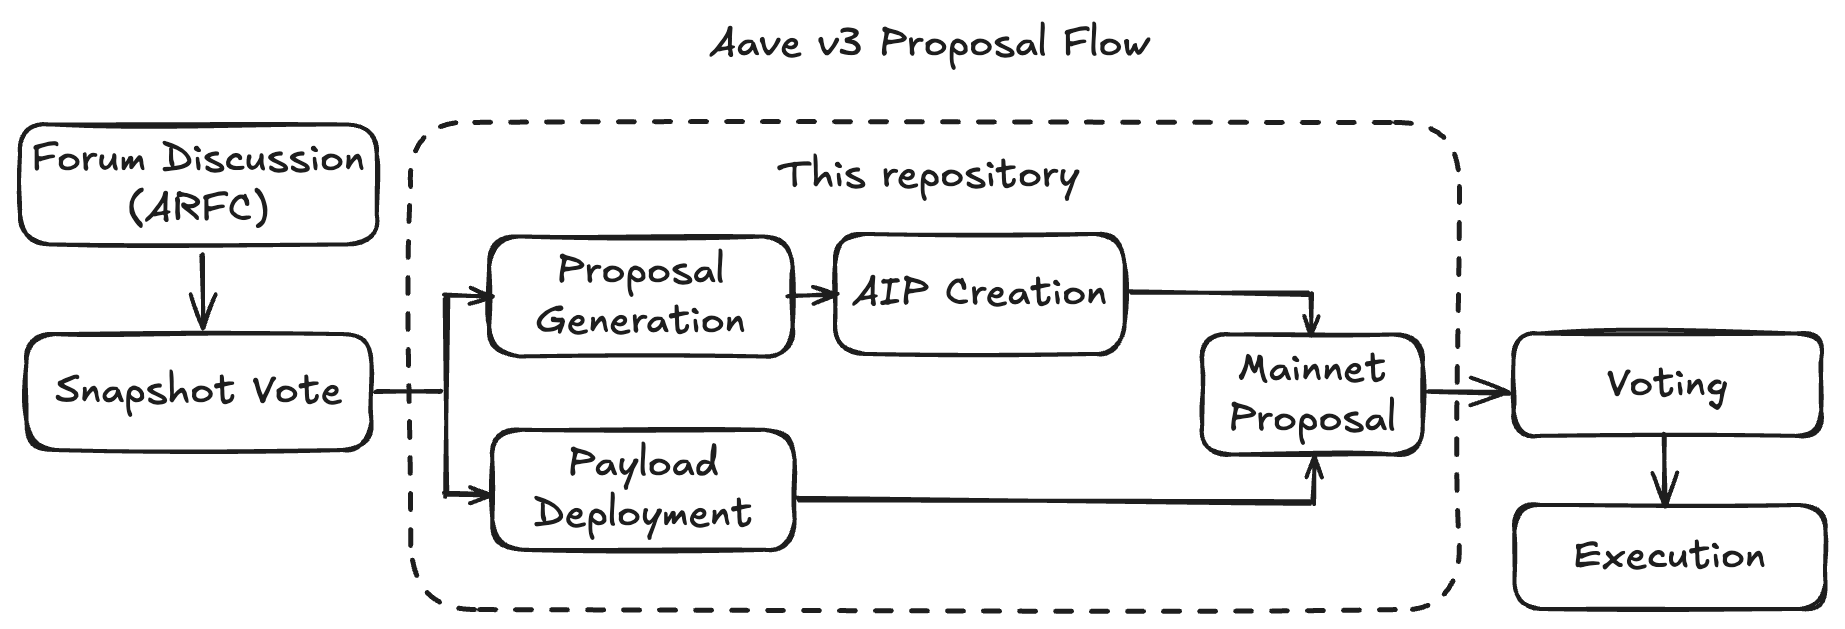
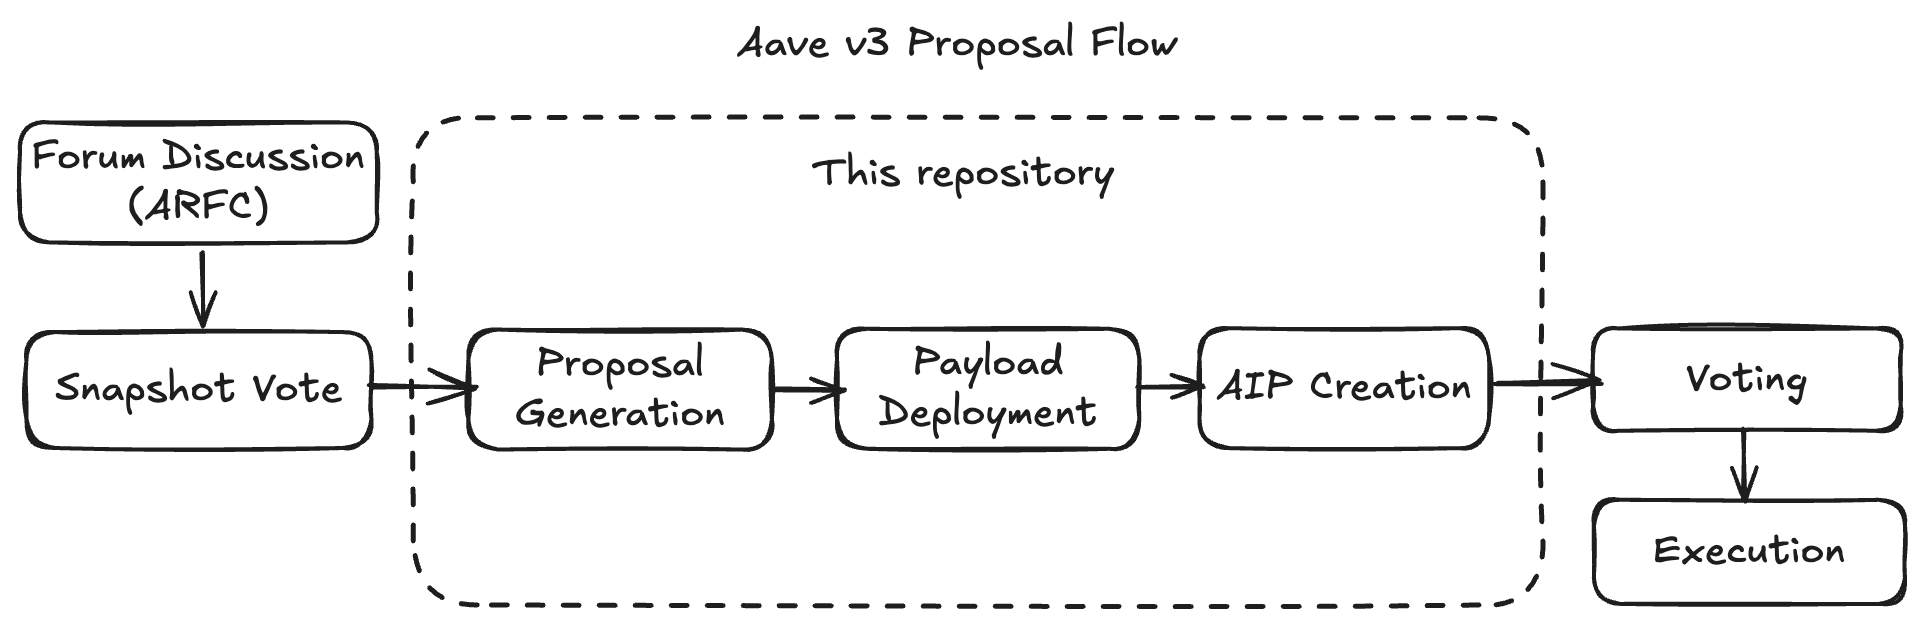
fix after review

diff --git a/README.md b/README.md
@@ -8,21 +8,20 @@ The tooling documentation is co-located with the relevant smart contracts.
 
 ![Governance Flow](./images/governance-flow.png)
 
-**Initial steps of Governance Process**:
+**Governance Process**:
 
 1. **Forum Discussion (ARFC)** → Community feedback
 2. **Snapshot Vote** → Off-chain temperature check
 
-**This repository** (steps 3-4 run in parallel):
+**This repository**:
 
-3. **Proposal Generation**
-4. **Payload Deployment** → Target chain (e.g., Arbitrum)
-5. **AIP Creation** → IPFS upload (auto via CI)
-6. **Mainnet Proposal** → Requires 80k AAVE voting power
+3. **Proposal Generation** → Generate proposal files (`npm run generate`)
+4. **Payload Deployment** → Deploy to target chain (e.g., Arbitrum)
+5. **AIP Creation** → Create on-chain proposal
 
 **On-chain Governance**:
 
-7. **Voting & Execution** → On-chain execution
+6. **Voting & Execution** → Community vote and on-chain execution
 
 ## Repository Structure
 
@@ -31,7 +30,7 @@ aave-proposals-v3/
 ├── docs/              # Documentation
 ├── src/               # Proposal payloads (Solidity)
 │   └── YYYYMMDD_*/    # Individual proposals (date-based)
-├── zksync/            # zkSync-specific proposals
+├── zksync/            # zkSync-specific code
 │   └── src/           # zkSync proposal payloads
 ├── generator/         # TypeScript CLI tool
 ├── diffs/             # Protocol state diffs (before/after)
